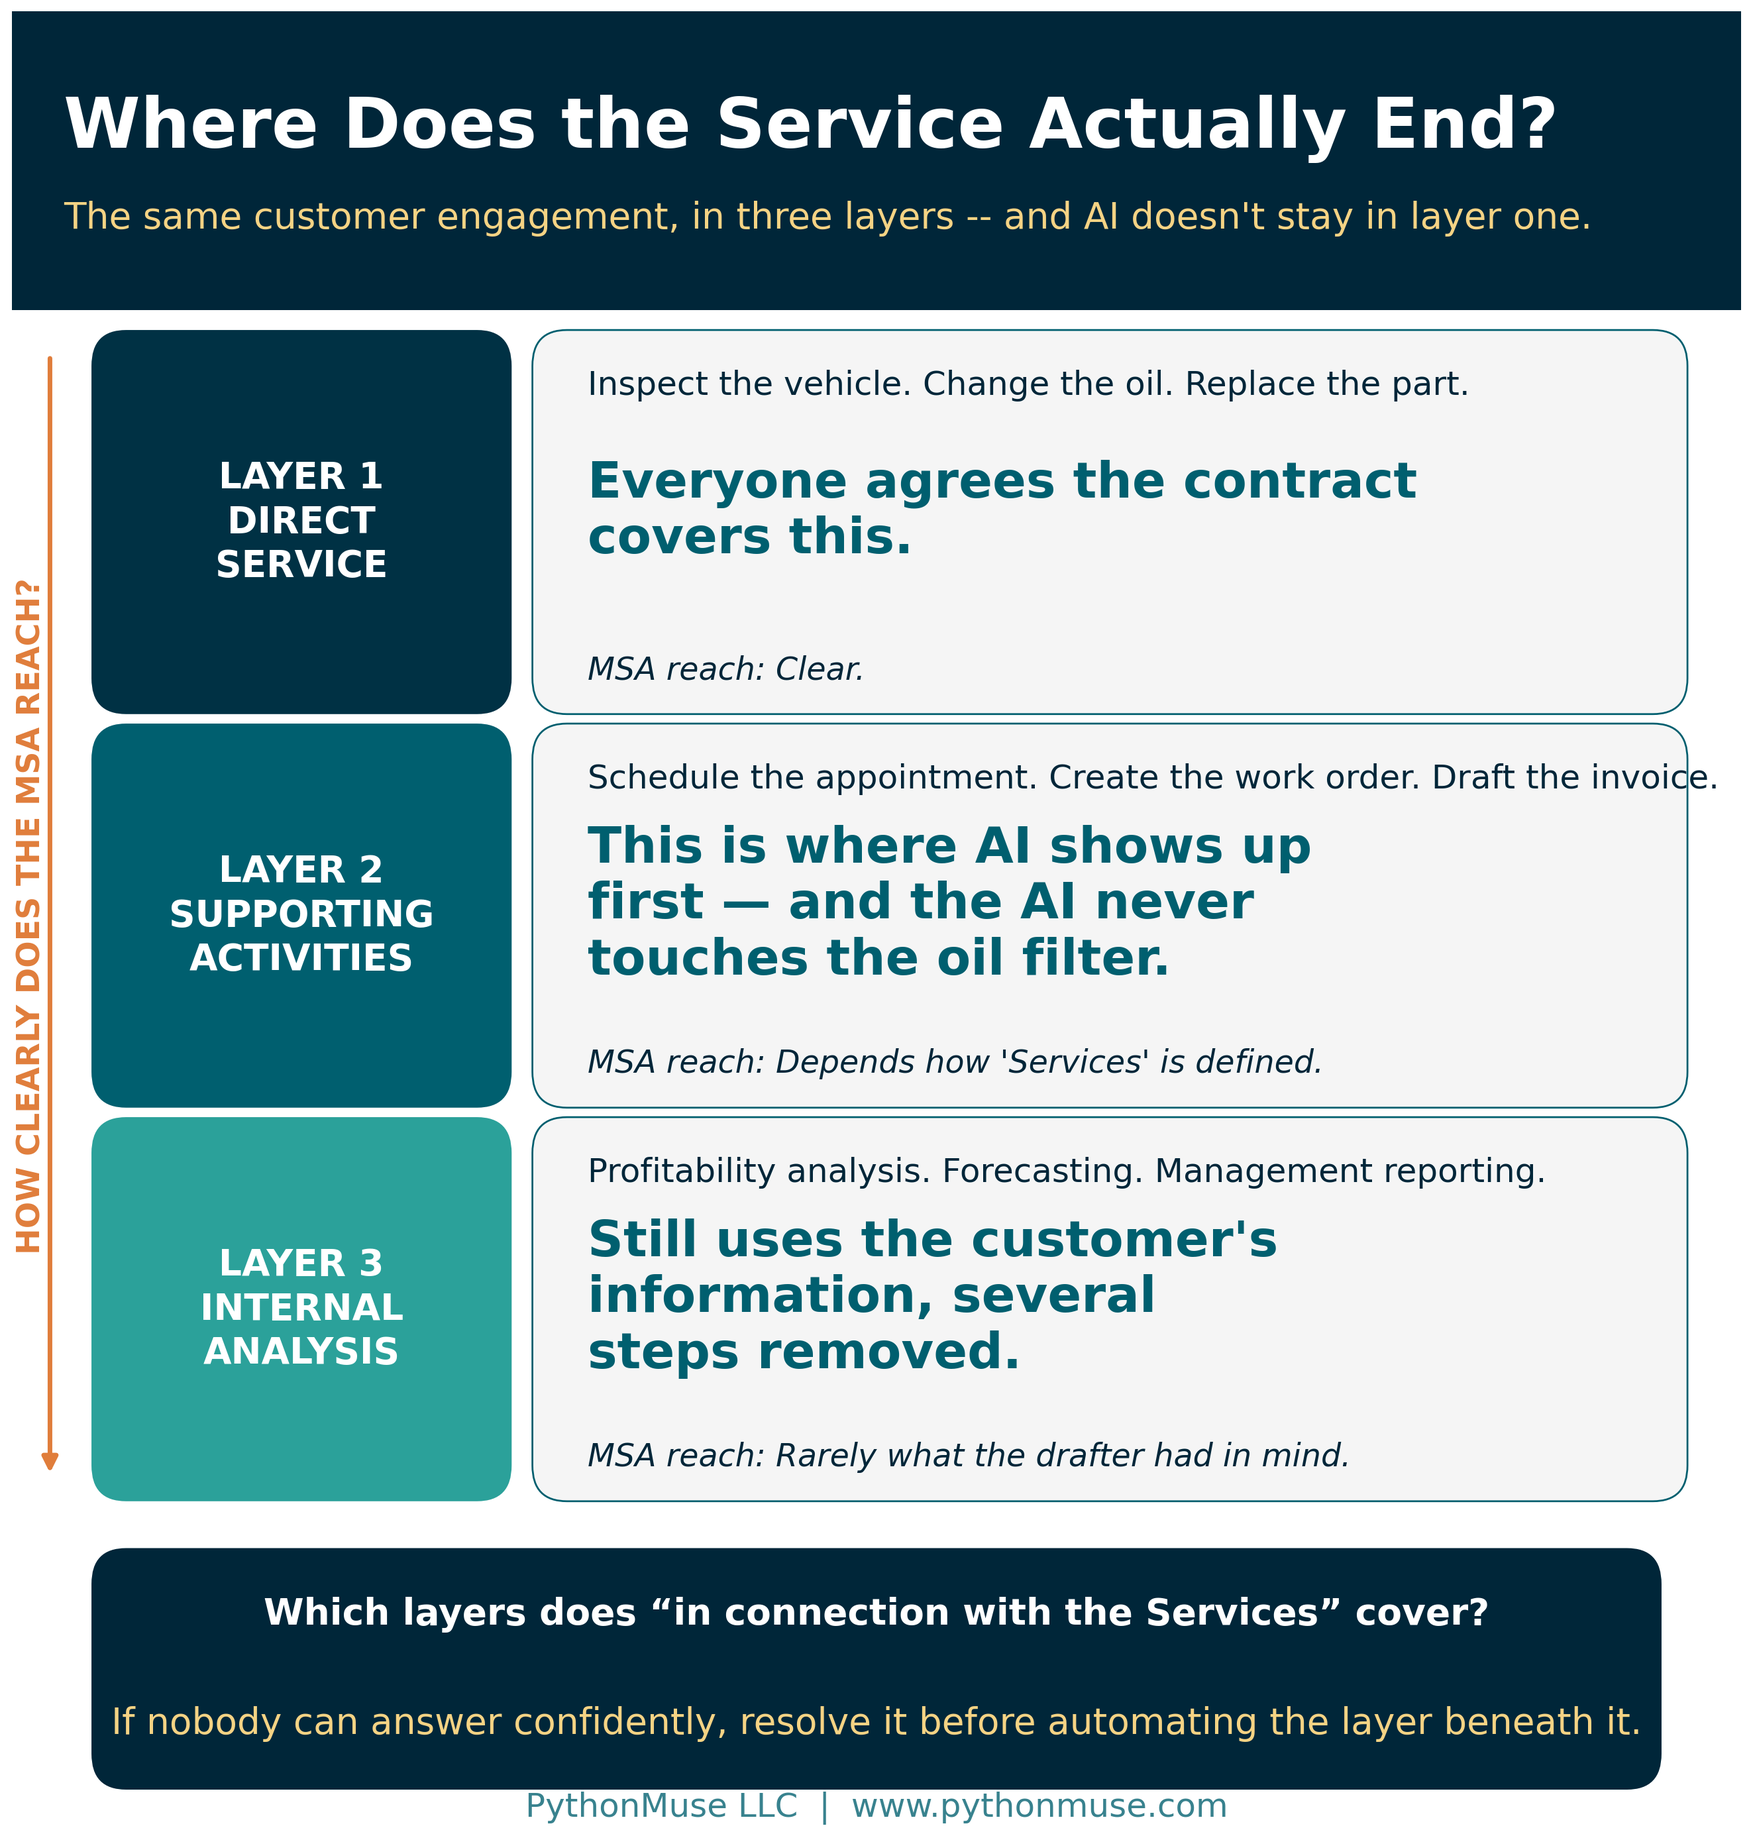
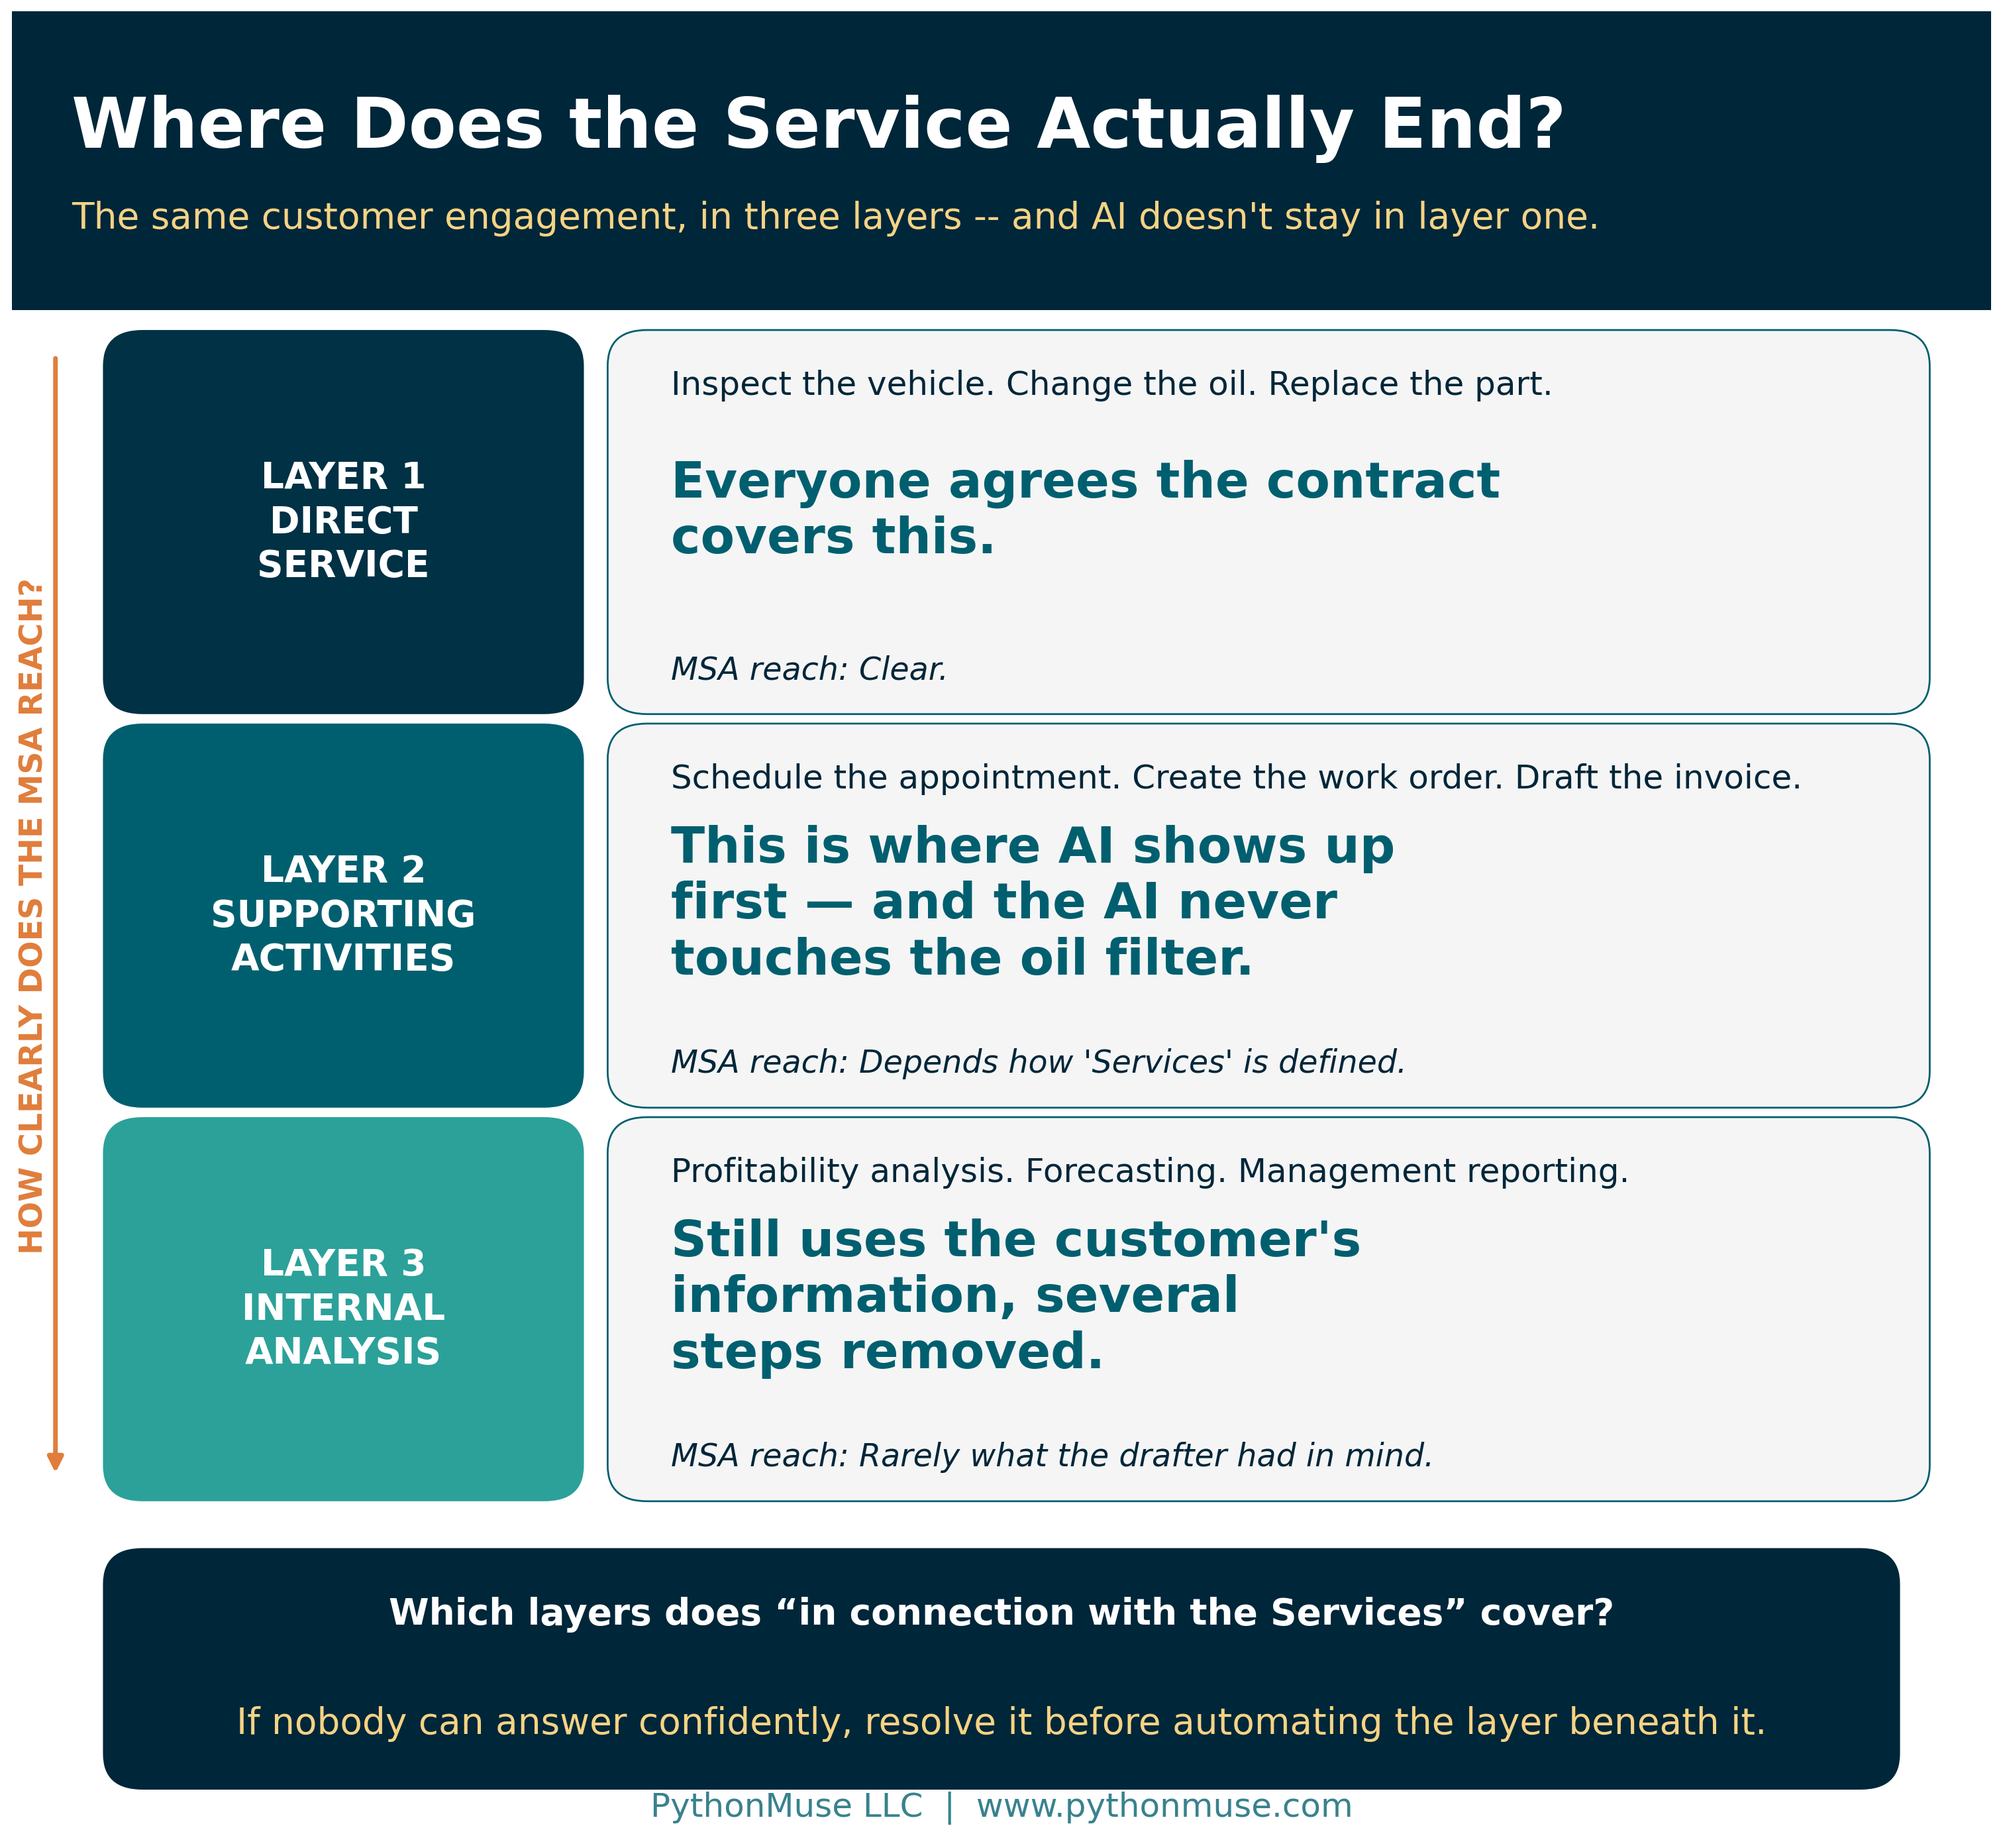
Widen 38_service_layers.png cards so Layer 2's longest line clears the edge
"Schedule the appointment. Create the work order. Draft the invoice."
was running right up against the card's right edge at 20pt, with
"invoice." nearly touching the border. Widened the figure (14.5in ->
16.6in) rather than shrinking the text -- since all three rows share
the same body_w, this gives every card the same extra room, not just
the tight one.

diff --git a/articles/38-ai-workflow-customer-contract/generate_visuals.py b/articles/38-ai-workflow-customer-contract/generate_visuals.py
@@ -250,7 +250,11 @@ def make_service_layers():
     # 32-36pt benchmark from 38_controls.png; everything else here (chip
     # name, the other two lines, side label, header, banner, footer) is
     # bumped a size step to match, per the same note.
-    fig, ax = blank_axes((14.5, 15.0))
+    # Widened (14.5in -> 16.6in) so Layer 2's longest line ("Draft the
+    # invoice.") clears the card's right edge with real margin instead of
+    # running up against it -- all three cards share body_w, so this gives
+    # every row the same extra breathing room, not just the tight one.
+    fig, ax = blank_axes((16.6, 15.0))
     # Header title dominant (as large as fits on one line at this figure
     # width); subtitle matched to the chip-name tier (22pt) below it, per
     # feedback that the header was still too close in size to its content.
